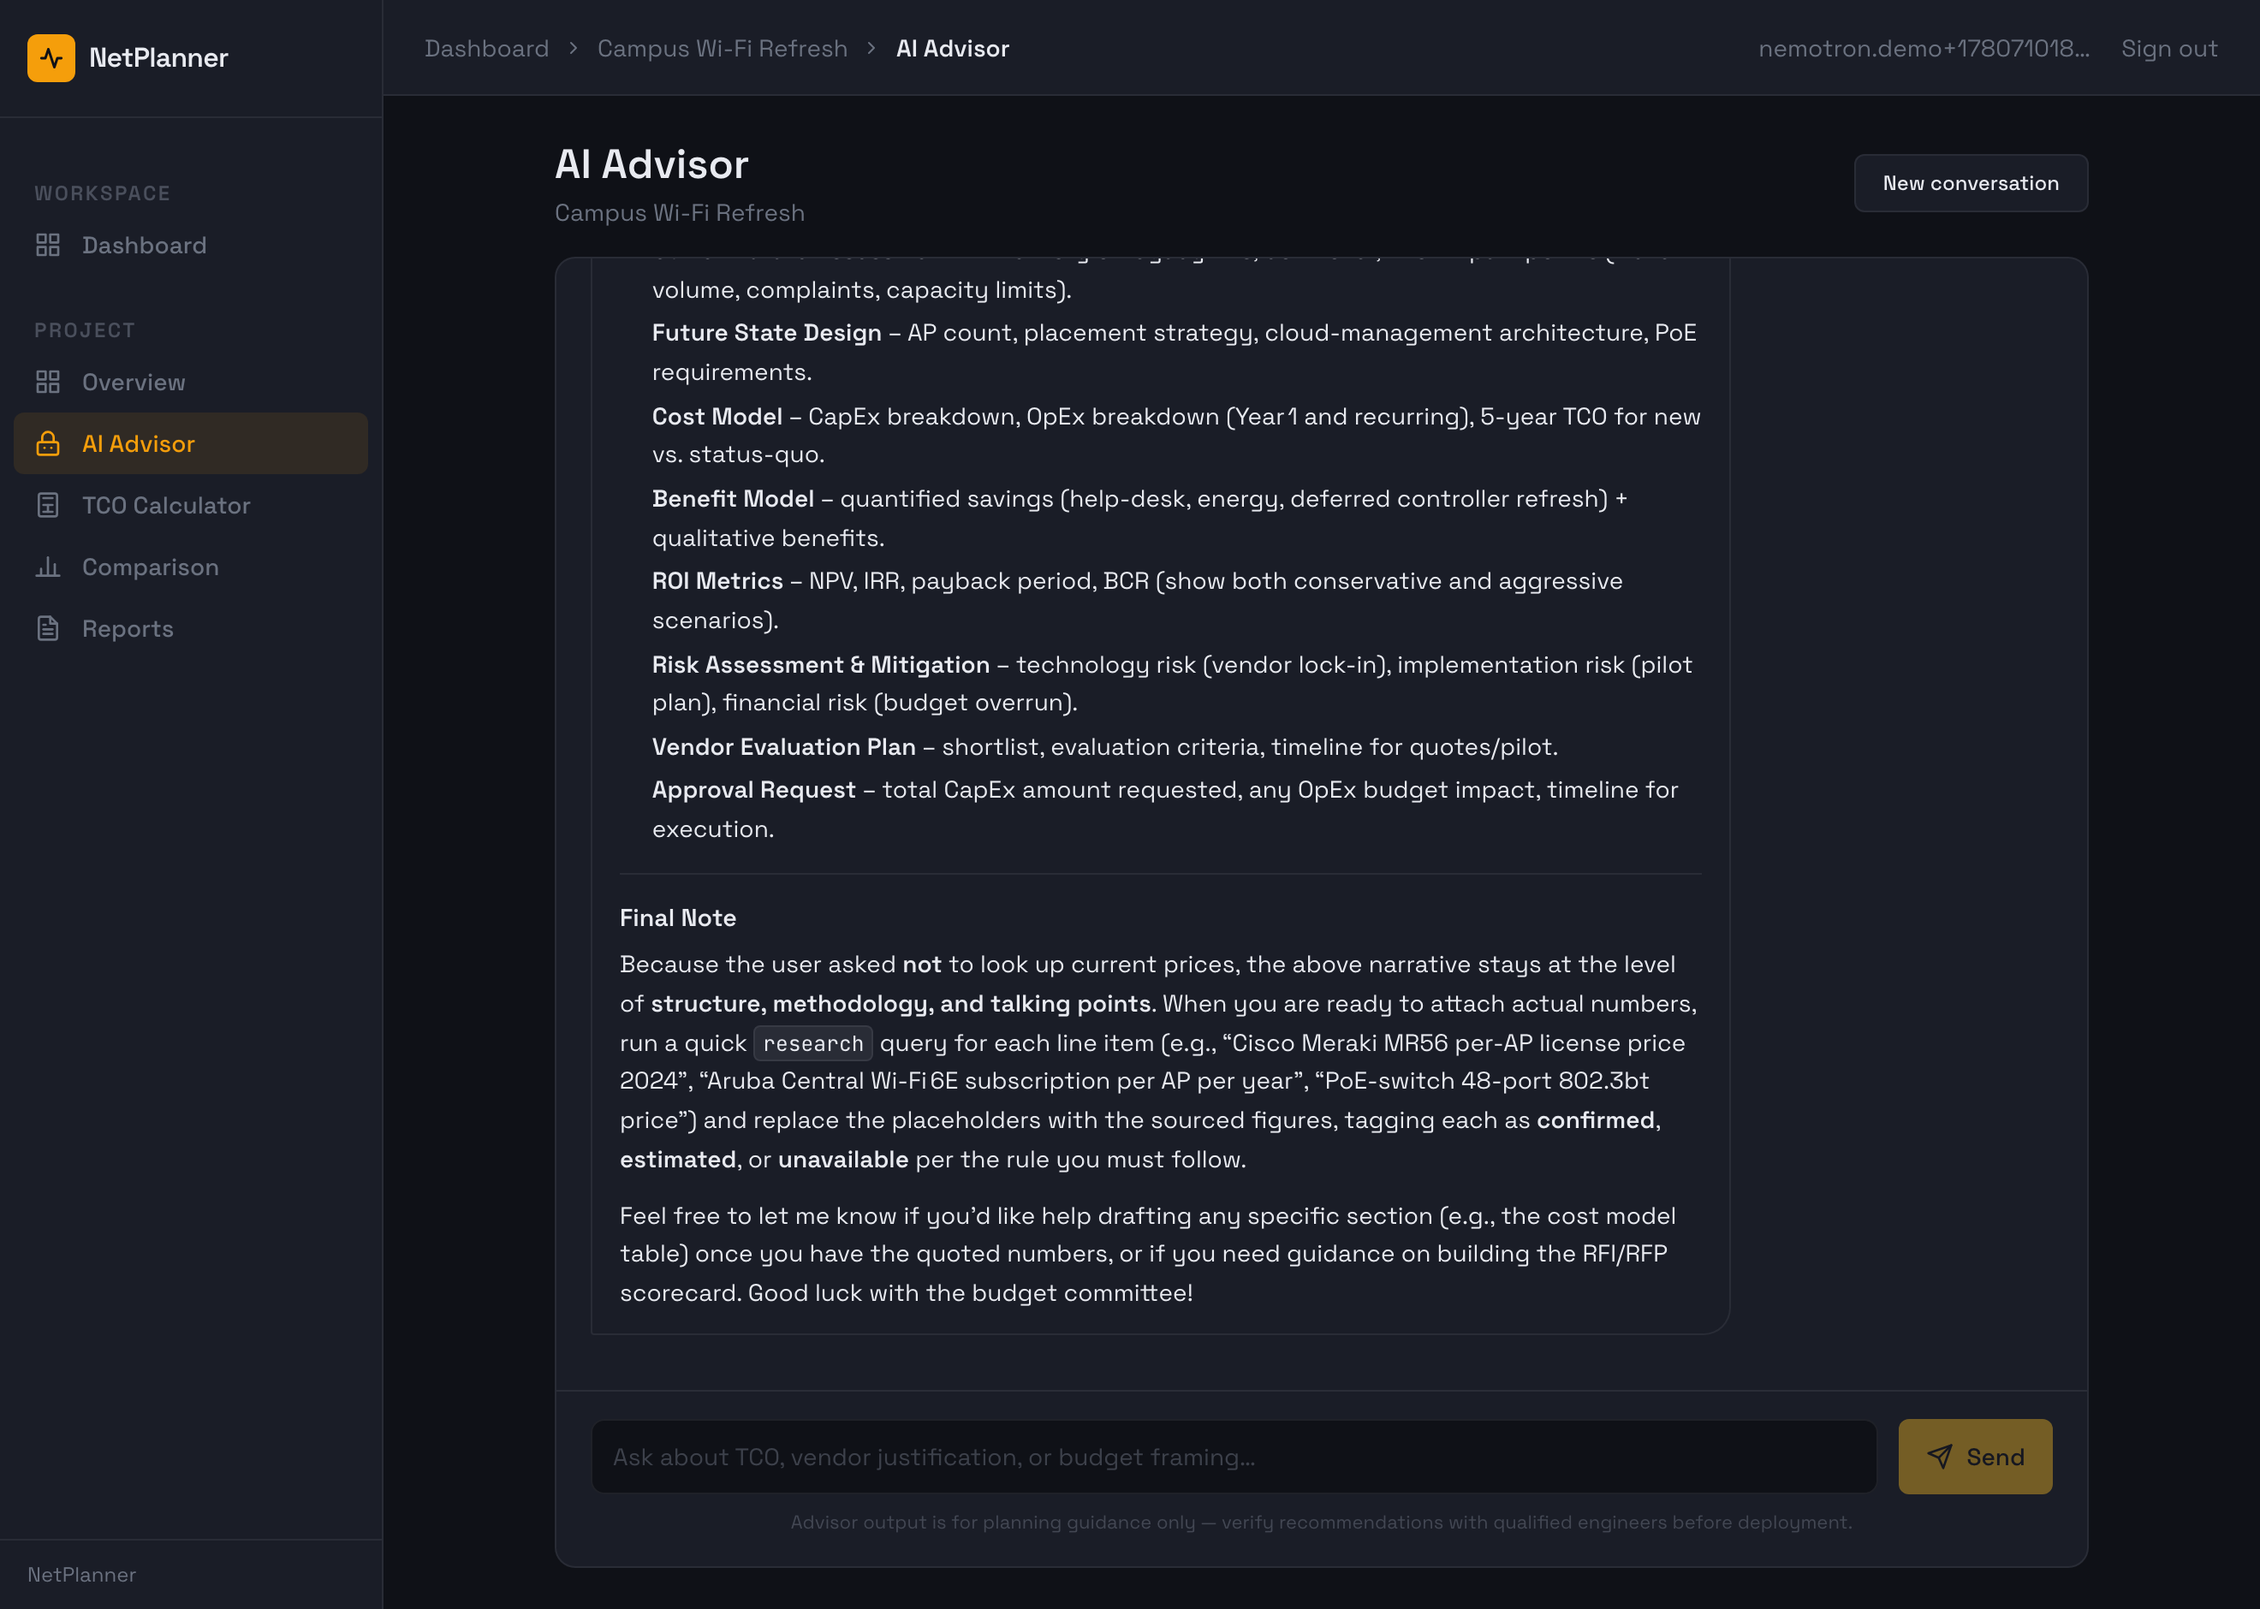
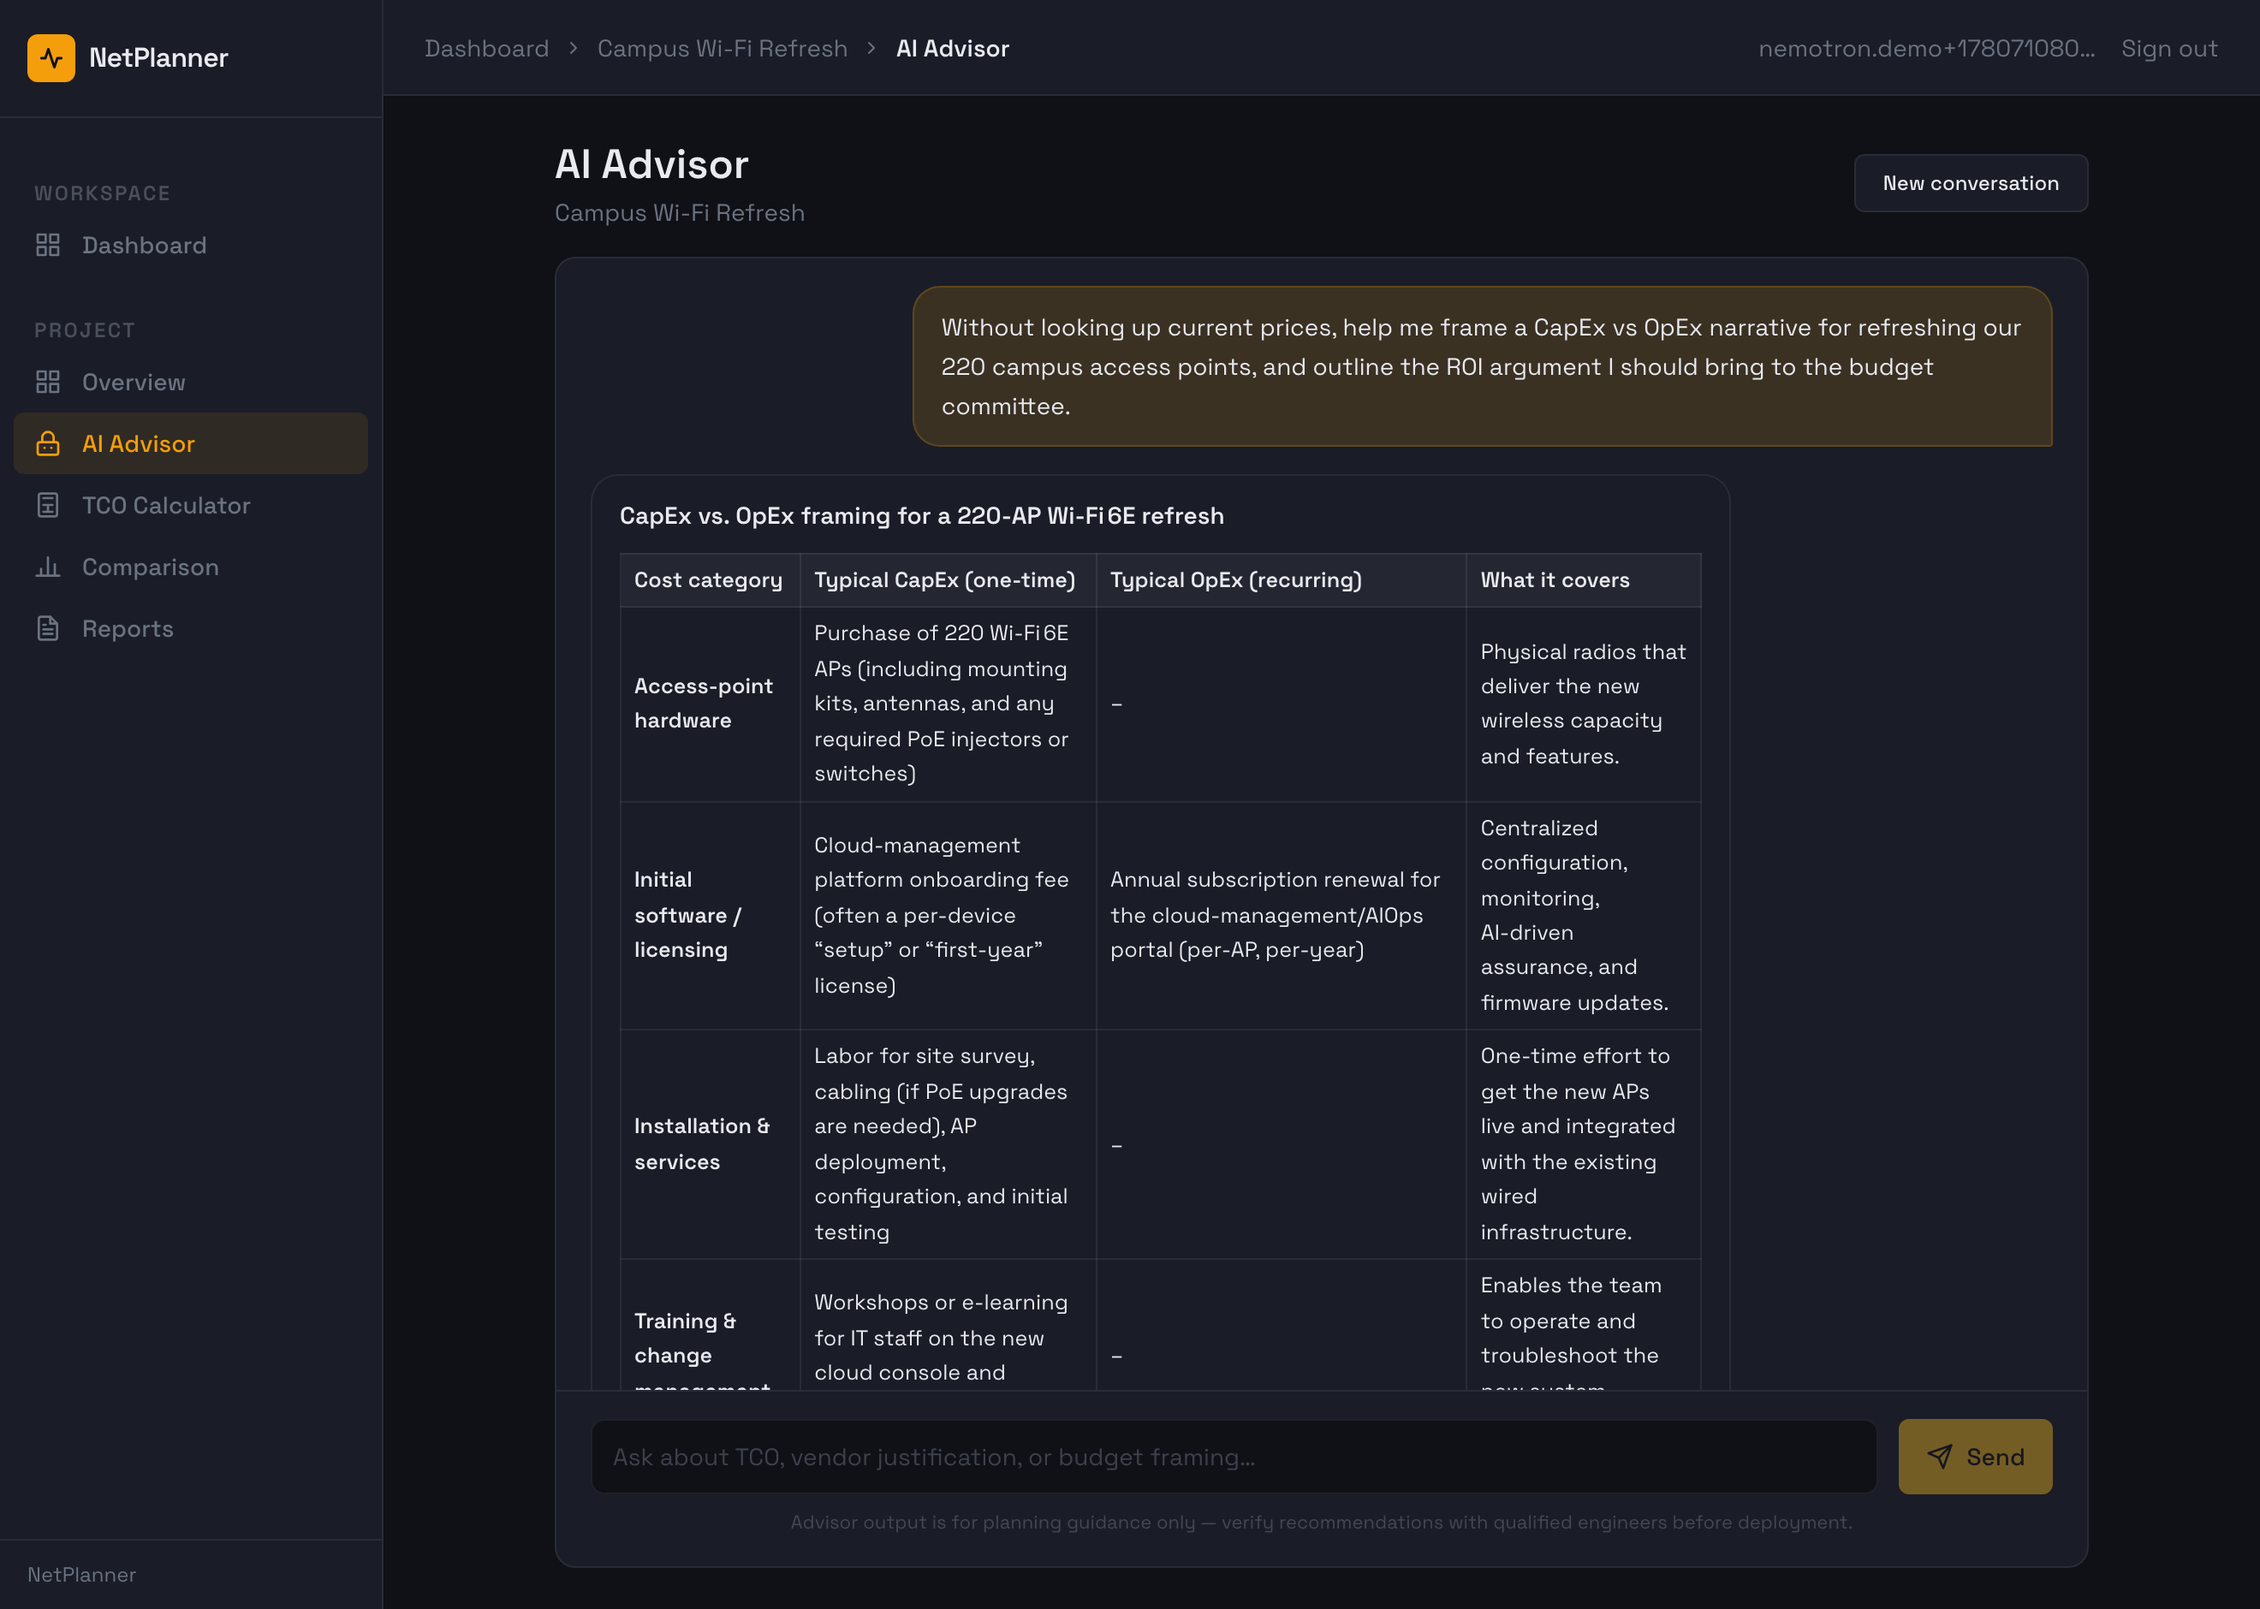
fix(evals): hero screenshot now scrolls the conversation to the top
The hero crop scrolled the wrong element (the textarea is also
overflow-y-auto), so it captured the same bottom region as the full shot.
Find the first message's scrollable ancestor and scroll it to top instead —
the hero now shows the user's question + the start of Nemotron's answer +
the NetPlanner chrome. Re-captured all four screenshots.

Changed region(s): [[0.2795, 0.1543, 0.9318, 0.8638]]

diff --git a/docs/evals/scripts/capture_screenshots.py b/docs/evals/scripts/capture_screenshots.py
@@ -100,10 +100,18 @@ async def main() -> None:
 
         await page.screenshot(path=str(OUT / "nemotron-advisor.png"), full_page=True)
 
-        # Cleaner hero crop: scroll the *message list* (px-5, not the textarea) to
-        # the top so the user's question + the start of the answer are in frame.
-        await page.eval_on_selector(
-            ".overflow-y-auto.px-5", "el => { el.scrollTop = 0; }"
+        # Hero crop: scroll the conversation to the TOP so the user's question +
+        # the start of Nemotron's answer + the NetPlanner chrome are all in frame.
+        # Find the scrollable ancestor of the first message rather than guessing a
+        # class (the textarea is also overflow-y-auto).
+        await page.evaluate(
+            """() => {
+                const el = document.querySelector('.advisor-md');
+                if (!el) return;
+                let p = el.parentElement;
+                while (p && p.scrollHeight <= p.clientHeight) p = p.parentElement;
+                if (p) p.scrollTop = 0;
+            }"""
         )
         await asyncio.sleep(0.8)
         await page.screenshot(path=str(OUT / "nemotron-advisor-hero.png"))
